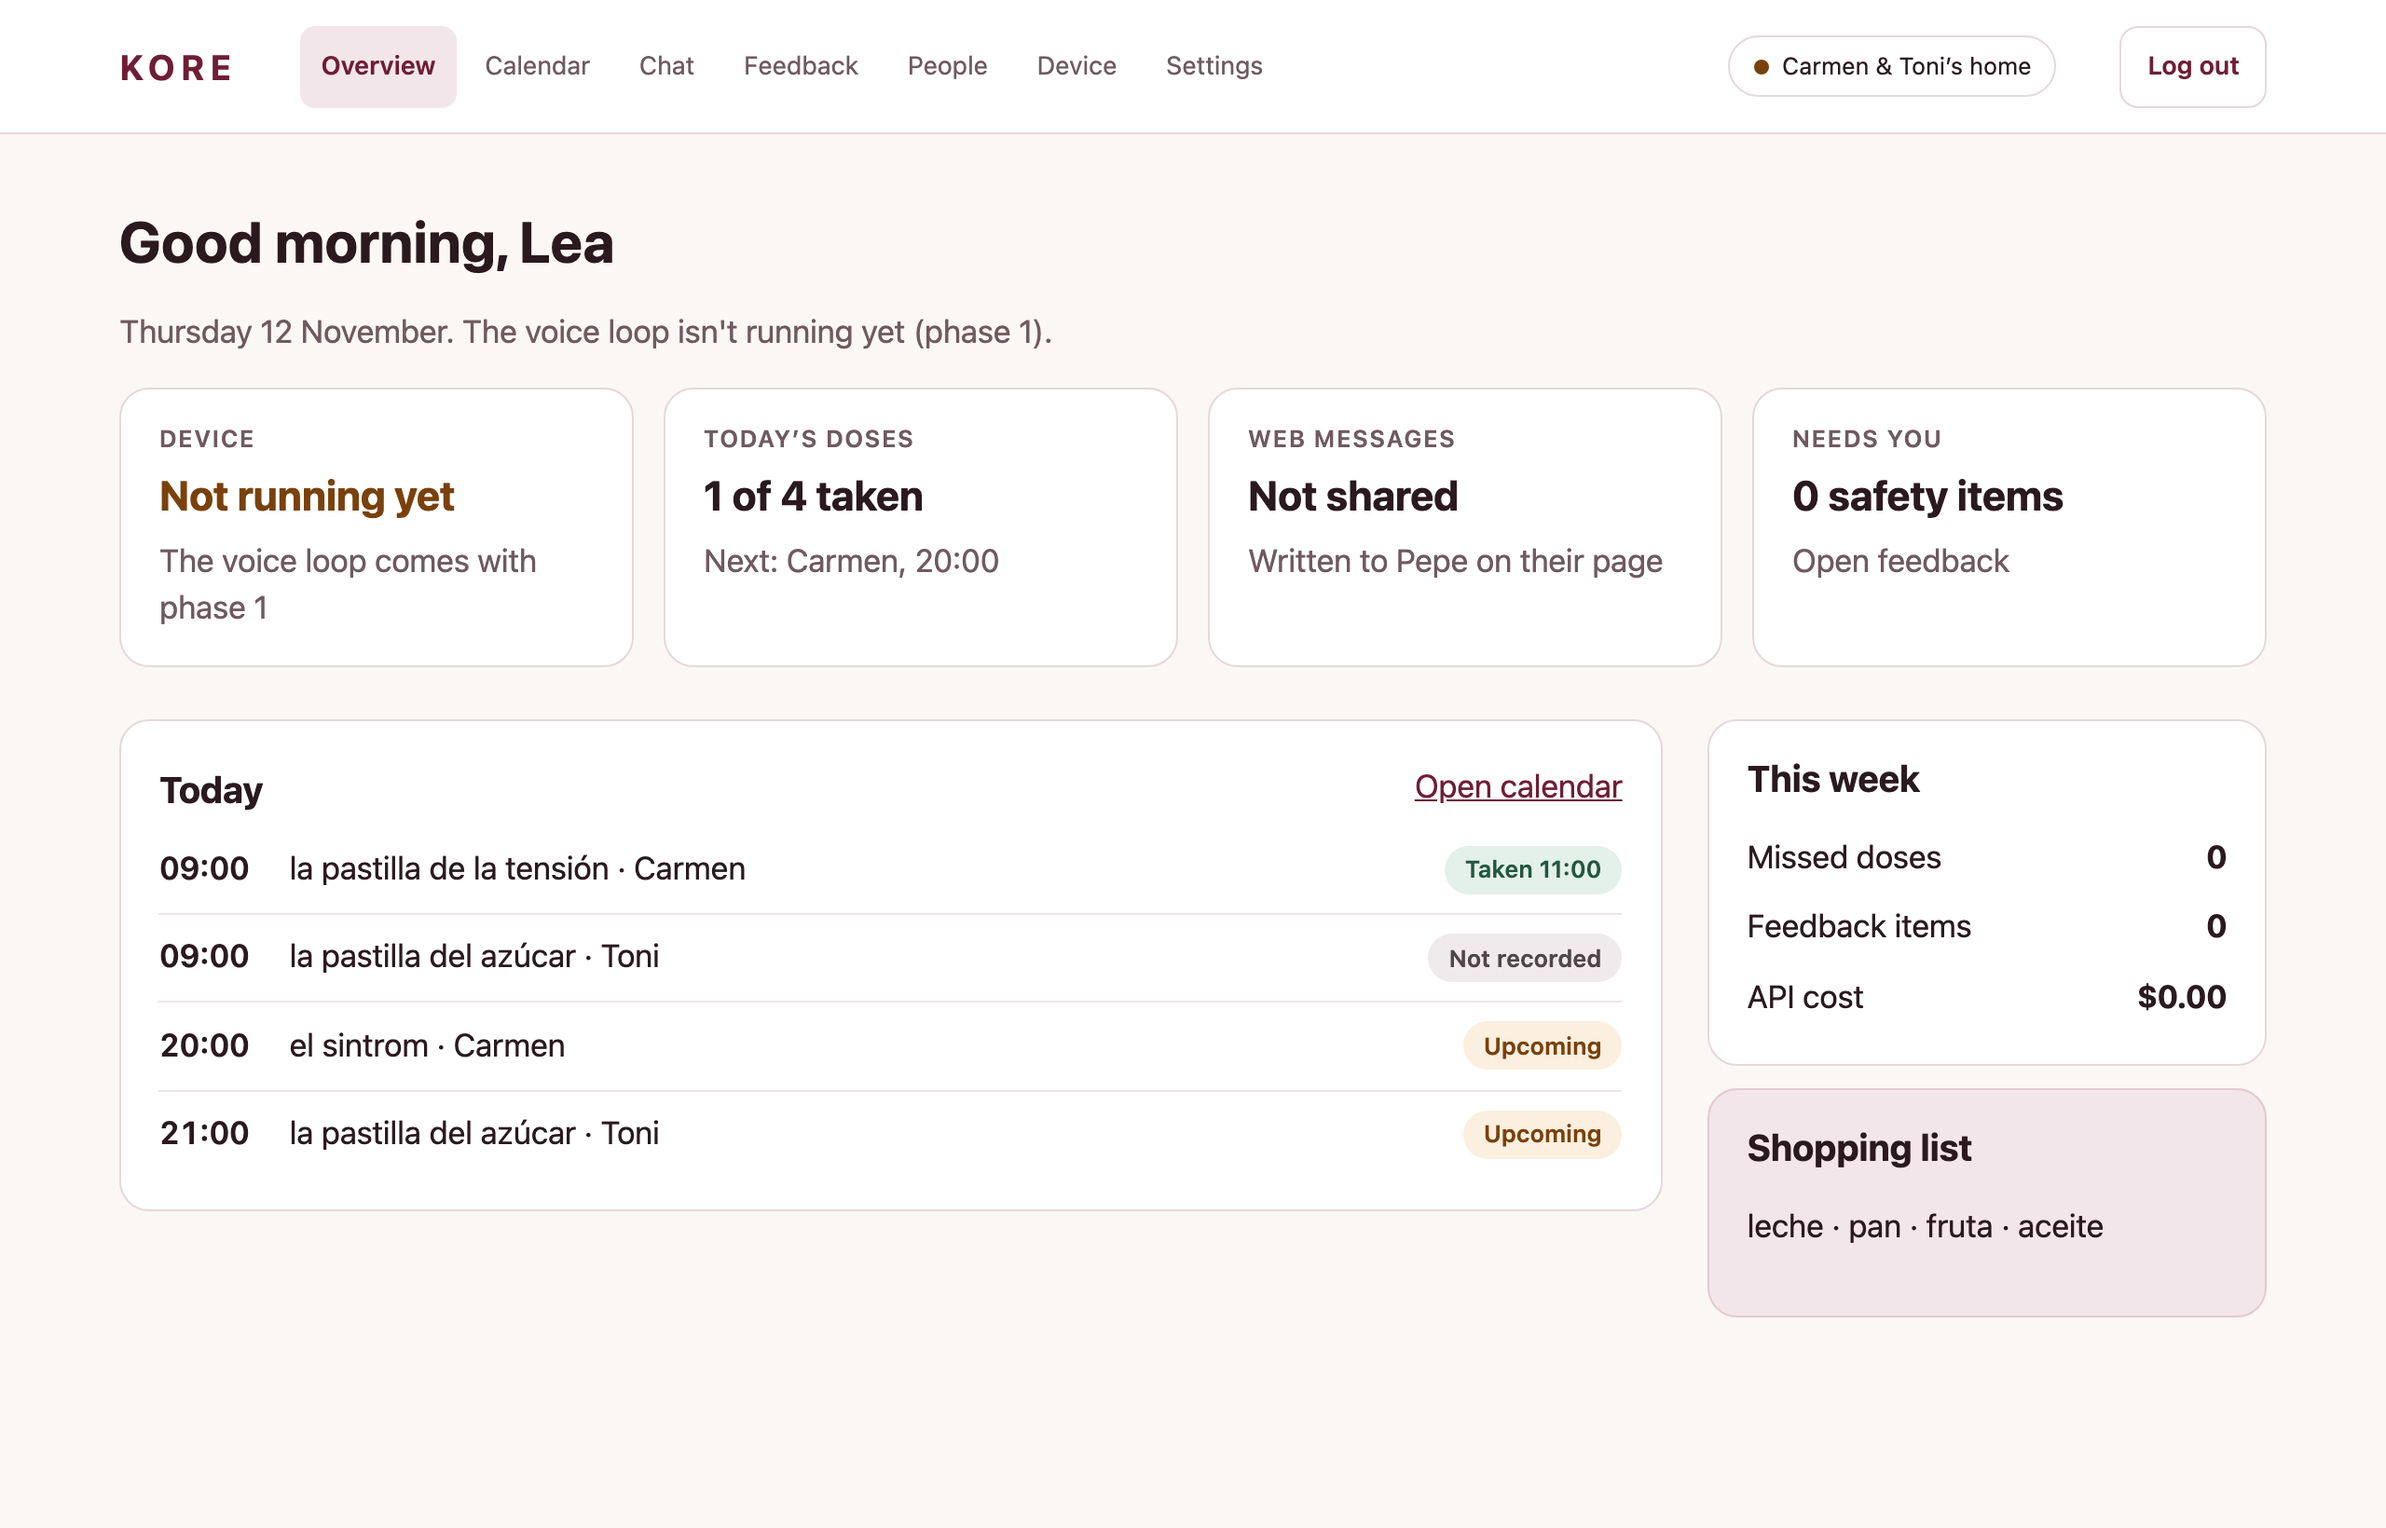
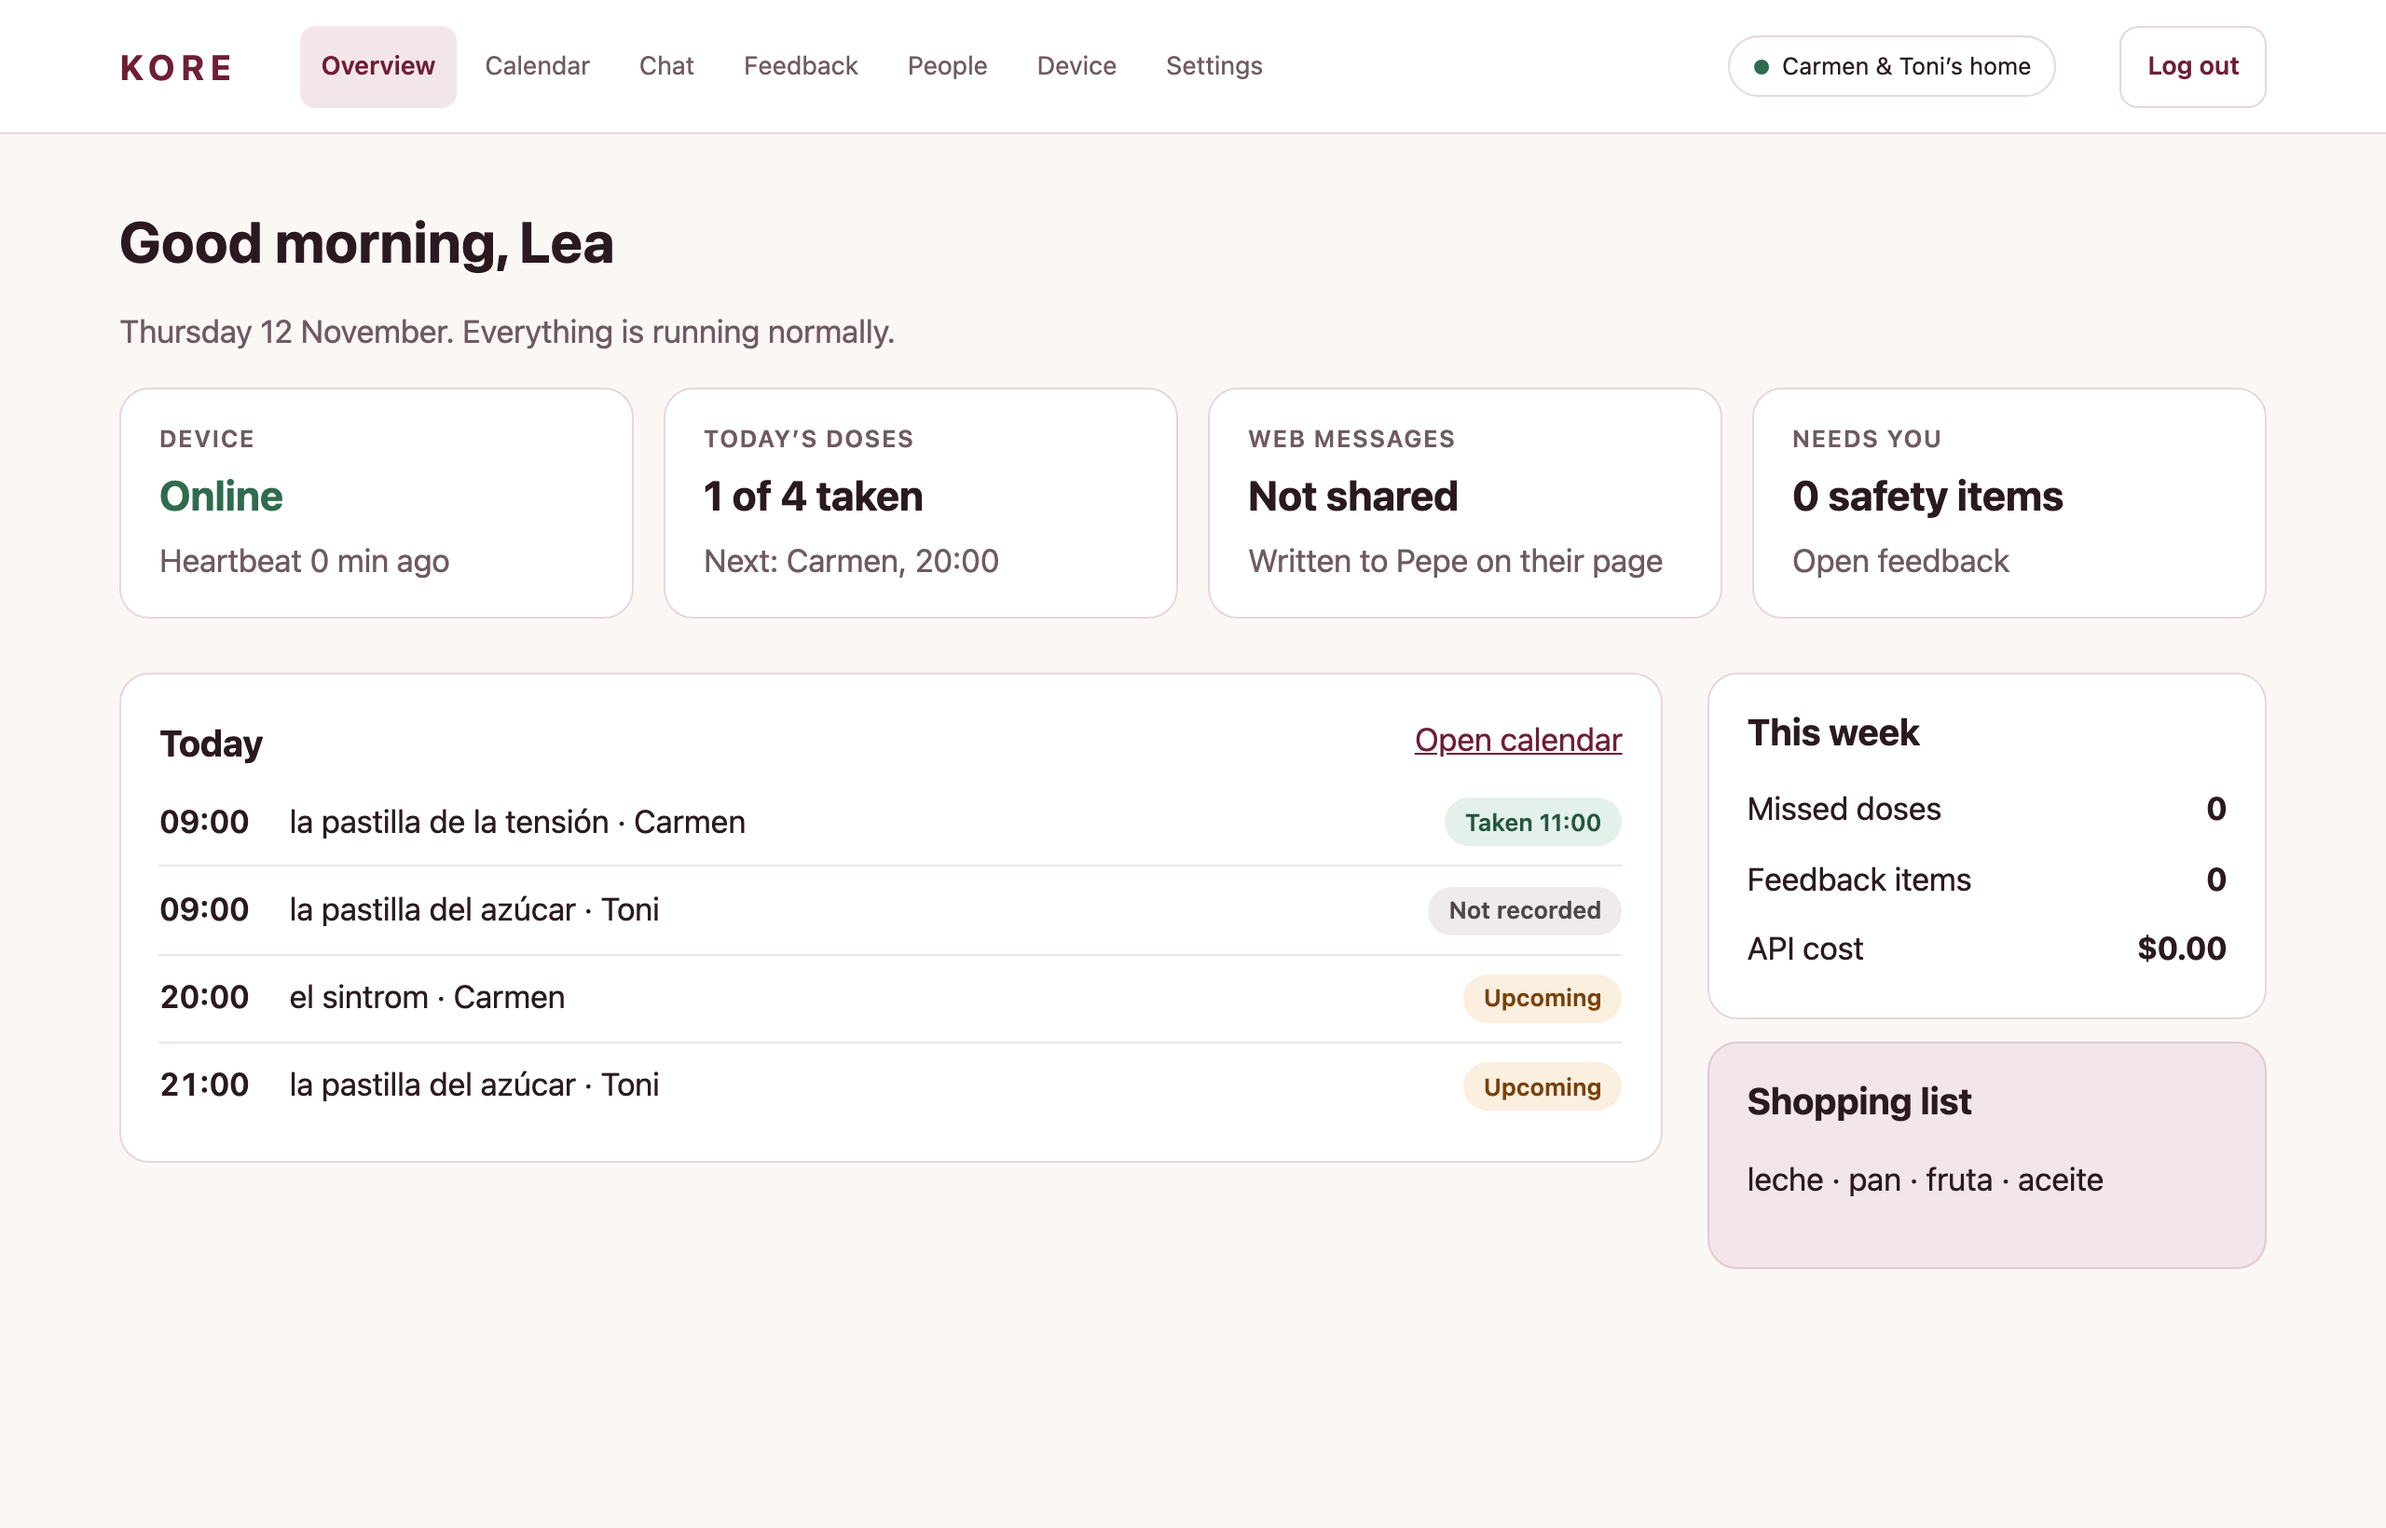
Console shows the voice loop as it really is; the demo runs KORE's home loop offline; finish the site's price section
The console said the voice loop "comes with phase 1" even though the loop exists: it now says
"Not started" with how to start it, and "Online" once the loop checks in. The offline demo only
started the web page, so its console (and the README picture) always looked broken; it now runs
the real home loop offline (no Claude, nothing sent). The site's [YOUR PRICE] placeholders and dead
links are replaced with wording that promises no price or date.

diff --git a/site/index.html b/site/index.html
@@ -124,9 +124,11 @@ providers to answer, and not kept by us</li>
 </div></section>
 
 <section id="price"><div class="wrap two">
-<div><h2>Price</h2><p class="price">[YOUR PRICE] <span>a month</span></p>
-<p>The KORE speaker and the service. [WHAT’S INCLUDED: setup help, device, updates]</p>
-<p>First homes: [LAUNCH AREA AND DATE]</p></div>
+<div><h2>Price</h2><p class="price">Coming soon</p>
+<p>One monthly plan covers everything: the KORE speaker, help setting it up at home, the large-text app and the
+family app, and every update.</p>
+<p>First homes: a small trial in Spain comes first. Join the waitlist and you’ll be the first to hear the price and
+the dates.</p></div>
 <form id="waitlist" action="#" method="get" aria-describedby="wl-note">
 <h2 style="margin:0">Join the waitlist</h2>
 <div><label for="wl-name">Your name</label><input id="wl-name" name="name" type="text" autocomplete="name" disabled></div>
@@ -134,12 +136,12 @@ providers to answer, and not kept by us</li>
 <div><label for="wl-for">Who is it for?</label><select id="wl-for" name="for" disabled><option>A parent</option>
 <option>A grandparent</option><option>Myself</option><option>Someone I care for</option></select></div>
 <button class="button" type="submit" disabled>Keep me posted</button>
-<p class="small" id="wl-note">The waitlist opens soon. We’ll only use your email for KORE news.
-<a href="#">Privacy policy</a></p>
+<p class="small" id="wl-note">The waitlist opens soon. We’ll only use your email for KORE news, and you can ask us
+to delete it at any time.</p>
 </form>
 </div></section>
 </main>
 <footer><div class="wrap"><span><b>KORE</b> · Madrid</span>
-<span><a href="#">Privacy</a><a href="#">Terms</a><a href="#">Contact</a></span></div></footer>
+<span>Made in Spain for older people and the families who care for them</span></div></footer>
 </body>
 </html>

diff --git a/scripts/demo.py b/scripts/demo.py
@@ -6,7 +6,9 @@ Seeds a throwaway database with Carmen and Antonio (made-up), their medicines,
 appointments, family and shopping list, then serves the page in test mode
 (the chat answers with a placeholder; nothing reaches Claude, SMS or Telegram).
 Log in as Carmen (Pepe "says" her code in this terminal) or open the admin
-console with the code it prints.
+console with the code it prints. KORE's real home loop runs alongside, offline
+(no Claude: only its offline phrases, printed here), so the console shows the
+device as running, as it would on the box.
 The clock is fixed at 11:00 today, home time, so the page looks the same
 whenever you run it (at night Pepe would refuse to say login codes).
 """
@@ -16,6 +18,7 @@ from __future__ import annotations
 import argparse
 import sys
 import tempfile
+import threading
 from datetime import datetime, timedelta
 from pathlib import Path
 
@@ -62,6 +65,41 @@ def admin_code(db: str, clock: FakeClock) -> str:
     return code
 
 
+class TerminalVoice:
+    """What Pepe would say out loud, printed in this terminal."""
+
+    def say(self, text: str, settings: dict) -> bool:
+        print(f"  Pepe diría: {text}", flush=True)
+        return True
+
+    def chime(self) -> None:
+        pass
+
+
+def start_home_loop(db: str, clock: FakeClock, every_s: float = 5.0) -> threading.Event:
+    """KORE's real home loop, offline: no Claude, no messages, no backups. It ticks like on the box, so the
+    console sees it running. Returns an event that stops it."""
+    from kore.brain.clients import ScriptedClient
+    from kore.home.loop import Home
+
+    def offline(request):
+        raise ConnectionError("demo: offline")
+
+    stop = threading.Event()
+
+    def run():
+        home = Home(db, clock, ScriptedClient(offline), TerminalVoice(), channels={}, backups=False)
+        while not stop.is_set():
+            try:
+                home.tick()
+            except Exception as e:  # the demo page keeps working even if a tick fails
+                print(f"  (home loop: {type(e).__name__}: {e})", flush=True)
+            stop.wait(every_s)
+
+    threading.Thread(target=run, name="home-loop", daemon=True).start()
+    return stop
+
+
 def main() -> int:
     ap = argparse.ArgumentParser(description=__doc__, formatter_class=argparse.RawDescriptionHelpFormatter)
     ap.add_argument("--port", type=int, default=8080)
@@ -78,6 +116,7 @@ def main() -> int:
     seed(db, clock)
     admin = admin_code(db, clock)
     app = create_app(db, clock, secure=False, dev=True, chat=_chat_worker(db, clock, dev=True), family_links={})
+    start_home_loop(db, clock)
     print(f"KORE demo on http://127.0.0.1:{a.port}  (made-up people, test mode, nothing is sent)")
     print("  Carmen's app:   choose Carmen and ask for a code; what Pepe would say aloud prints below")
     print(f"  Admin console:  open /entrar and type {admin} (valid 10 minutes)")

diff --git a/kore/web/pages_console.py b/kore/web/pages_console.py
@@ -48,8 +48,8 @@ def overview(d: dict) -> str:
     device_card = (f'<a class="card stat" href="/console/device"><span class="label">Device</span>'
                    + (f'<span class="big-number" style="color:var(--online)">Online</span><span class="muted">Heartbeat '
                       f'{loop["ago_min"]} min ago</span>' if loop and loop["online"] else
-                      f'<span class="big-number" style="color:var(--wait)">{"Offline" if loop else "Not running yet"}'
-                      f'</span><span class="muted">{"Last seen " + str(loop["ago_min"]) + " min ago" if loop else "The voice loop comes with phase 1"}</span>')
+                      f'<span class="big-number" style="color:var(--wait)">{"Offline" if loop else "Not started"}'
+                      f'</span><span class="muted">{"Last seen " + str(loop["ago_min"]) + " min ago" if loop else "Start KORE (Pepe.command on the Mac, or the box) to see it here"}</span>')
                    + "</a>")
     doses = (f'{today["taken"]} of {today["total"]} taken' if today["total"] else "None today") if today["anyone"] \
         else "Not shared"
@@ -316,7 +316,7 @@ def device(d: dict) -> str:
                   f'{loop["ago_min"]} min ago</span>') if loop and loop["online"] else
                  (f'<span class="big-number" style="color:var(--wait)">Offline</span><span class="muted">last seen '
                   f'{loop["ago_min"]} min ago</span>') if loop else
-                 '<span class="big-number">Not running yet</span><span class="muted">The voice loop comes with phase 1</span>')
+                 '<span class="big-number">Not started</span><span class="muted">Start KORE (Pepe.command on the Mac, or the box) to see it here</span>')
     cards = [f'<div class="card stat"><span class="label">Connection</span>{conn_card}</div>',
              f'<div class="card stat"><span class="label">Clock</span><span class="big-number">'
              f'{"Trusted" if dev["clock_ok"] else "Not trusted"}</span><span class="muted">'

diff --git a/kore/web/app.py b/kore/web/app.py
@@ -489,7 +489,7 @@ def create_app(db_path: str, clock: Clock | None = None, secure: bool = False, h
         now = clock.now()
         dev = console.device(db(), clock, cost_log)
         need = console.needs_you(db(), clock)
-        summary = ("Something needs you." if need else "The voice loop isn't running yet (phase 1)." if not dev["loop"]
+        summary = ("Something needs you." if need else "KORE's voice isn't running: start it with Pepe.command or on the box." if not dev["loop"]
                    else "Everything is running normally." if dev["loop"]["online"] else "The box hasn't been seen lately.")
         return {**base(), "hour": now.hour, "date": now.strftime("%A %-d %B"), "summary": summary, "device": dev,
                 "today": console.today(db(), clock), "messages_today": console.messages_today(db(), clock),

diff --git a/tests/test_console.py b/tests/test_console.py
@@ -71,7 +71,7 @@ def test_without_their_yes_lea_sees_only_the_box(lea, day):
     page = everything(lea)
     for private in ("sintrom", "la rosa", "metformina", "Ginecólogo", "Urólogo", "novelas", "carpintero", "panecillos"):
         assert private not in page, private
-    assert "Not shared" in page and "hasn’t agreed" in page and "Not running yet" in page
+    assert "Not shared" in page and "hasn’t agreed" in page and "Not started" in page
 
 
 def test_with_carmens_yes_lea_sees_carmens_day_only(lea, conn, clock, day):

diff --git a/kore/web/console.py b/kore/web/console.py
@@ -31,7 +31,7 @@ from kore.web import agenda
 
 LEA_DAYS = 7
 CONVERSATION_GAP = timedelta(minutes=30)
-LOOP_SEEN = "loop_seen_at"  # written by the voice loop on each tick (phase 1); none yet: "not running yet"
+LOOP_SEEN = "loop_seen_at"  # written by the voice loop (kore.home) on each tick; never written: "not started"
 PROPOSAL_LIFE = timedelta(days=7)
 PERMISSION_ROWS = [
     ("presence_sensor", "Presence sensor greets them"),
